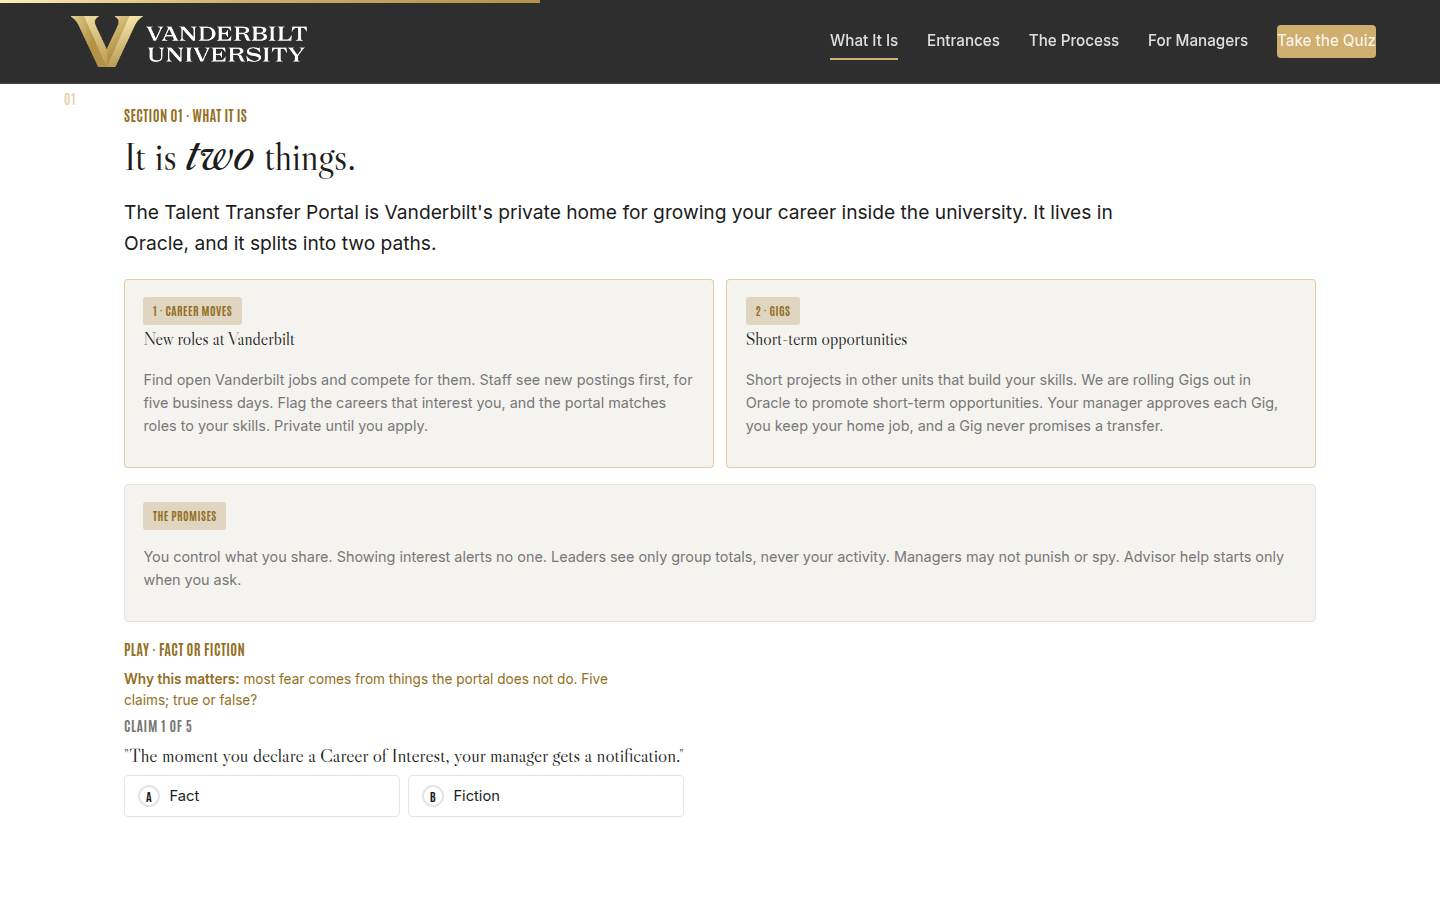
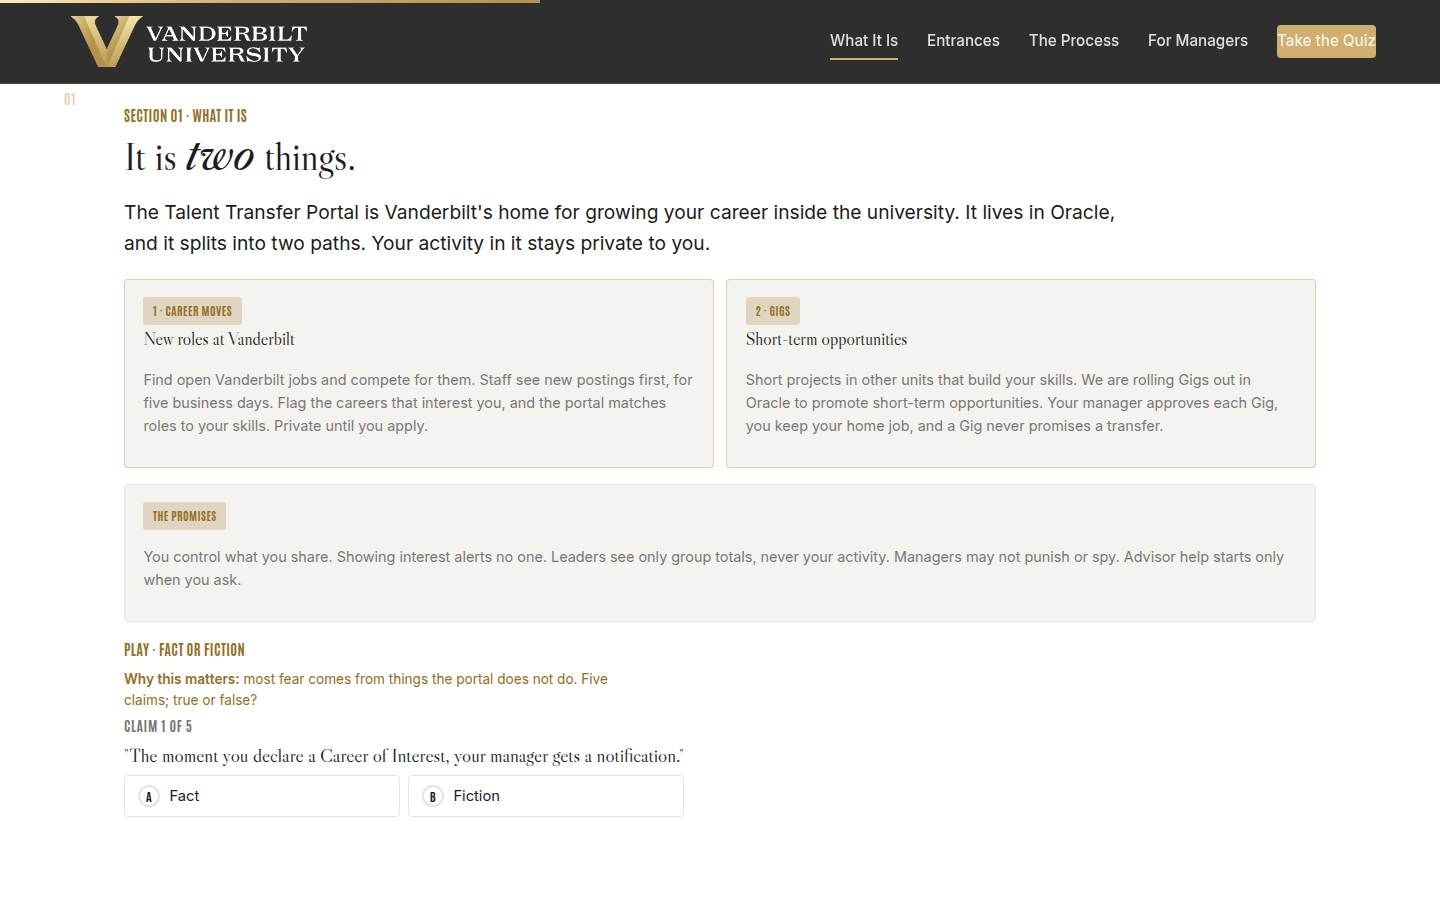
Drop the private-home phrasing; the portal is open, your activity is private
The site and course no longer call the portal a private home. The
program hero says home for your growth and development; the course
What It Is page adds that your activity in it stays private to you,
and the closing keeps the accurate claim (signal interest safely and
privately). Editions, guide, and SCORM package regenerated.

Claude-Session: https://claude.ai/code/session_016tfiZ6XpMCwgGy8wFQJXa7

Changed region(s): [[0.0938, 0.2178, 0.7812, 0.28]]

diff --git a/facilitator/index.html b/facilitator/index.html
@@ -335,7 +335,7 @@ body.fac-hide .facshow { display: inline-flex; }
     <div class="wrap">
       <p class="eyebrow" data-reveal>Section 01 · What It Is</p>
       <h2 class="h2" data-reveal>It is <em>two</em> things.</h2>
-      <p class="lead" data-reveal>The Talent Transfer Portal is Vanderbilt's private home for growing your career inside the university. It lives in Oracle, and it splits into two paths.</p>
+      <p class="lead" data-reveal>The Talent Transfer Portal is Vanderbilt's home for growing your career inside the university. It lives in Oracle, and it splits into two paths. Your activity in it stays private to you.</p>
 
       <div class="grid grid-3" style="margin-top:1.25rem;grid-template-columns:repeat(auto-fit,minmax(280px,1fr))">
         <div class="card" data-reveal style="border-color:rgba(207,174,112,.55)">
@@ -383,7 +383,7 @@ body.fac-hide .facshow { display: inline-flex; }
         </div>
       </details>
     </div>
-    <aside class="facnote" aria-label="Facilitator notes"><div class="facnote__head"><span>Facilitator script</span><span class="facnote__time">Full 1 min · Core 1</span><button class="facnote__hide" type="button" aria-label="Hide the facilitator script">Hide</button></div><p class="facnote__purpose">Land the simple model: one private portal, two paths (career moves and Gigs), and the promises that make it safe.</p><div class="facnote__blk"><span class="facnote__tag t-say">Say</span><p class="facnote__script">&ldquo;What is it? Two things, one portal. Path one: career moves. Find open Vanderbilt jobs, see them before the public does, and compete for them. Path two: Gigs. Short projects in other units that build your skills; we are rolling Gigs out in Oracle to promote short-term opportunities. Both live in Oracle, both stay private until you act, and leaders only ever see group totals. Now the game: five claims, true or false.&rdquo;</p></div><div class="facnote__blk"><span class="facnote__tag t-do">Do</span><ol class="facnote__steps"><li>The two path cards, one breath each: career moves, then Gigs.</li><li>Read the promises card once, slowly.</li><li>Run Fact or Fiction as a fast room vote, hands for A or B.</li></ol></div><p class="facnote__meta"><b>Validate:</b> 4+ of 5 on the trainer.</p><p class="facnote__meta"><b>Watch for:</b> Privacy skepticism; point at the mechanics (no notifications, aggregate-only) and move on. If Gigs come up: they have not launched yet, teach the concept and flag that timing is to be announced.</p><div class="facnote__blk"><span class="facnote__tag t-tra">Transition</span><p class="facnote__script">&ldquo;Which door is yours? There are six.&rdquo;</p></div><p class="facnote__meta facnote__core"><b>60-min core:</b> Core: same minute; the trainer carries it.</p></aside>
+    <aside class="facnote" aria-label="Facilitator notes"><div class="facnote__head"><span>Facilitator script</span><span class="facnote__time">Full 1 min · Core 1</span><button class="facnote__hide" type="button" aria-label="Hide the facilitator script">Hide</button></div><p class="facnote__purpose">Land the simple model: one portal, two paths (career moves and Gigs), and the promises that make it safe.</p><div class="facnote__blk"><span class="facnote__tag t-say">Say</span><p class="facnote__script">&ldquo;What is it? Two things, one portal. Path one: career moves. Find open Vanderbilt jobs, see them before the public does, and compete for them. Path two: Gigs. Short projects in other units that build your skills; we are rolling Gigs out in Oracle to promote short-term opportunities. Both live in Oracle, both stay private until you act, and leaders only ever see group totals. Now the game: five claims, true or false.&rdquo;</p></div><div class="facnote__blk"><span class="facnote__tag t-do">Do</span><ol class="facnote__steps"><li>The two path cards, one breath each: career moves, then Gigs.</li><li>Read the promises card once, slowly.</li><li>Run Fact or Fiction as a fast room vote, hands for A or B.</li></ol></div><p class="facnote__meta"><b>Validate:</b> 4+ of 5 on the trainer.</p><p class="facnote__meta"><b>Watch for:</b> Privacy skepticism; point at the mechanics (no notifications, aggregate-only) and move on. If Gigs come up: they have not launched yet, teach the concept and flag that timing is to be announced.</p><div class="facnote__blk"><span class="facnote__tag t-tra">Transition</span><p class="facnote__script">&ldquo;Which door is yours? There are six.&rdquo;</p></div><p class="facnote__meta facnote__core"><b>60-min core:</b> Core: same minute; the trainer carries it.</p></aside>
   </section>
 
   
@@ -736,7 +736,7 @@ body.fac-hide .facshow { display: inline-flex; }
     <div class="wrap" style="text-align:center">
       <img src="../assets/img/vu-centered-white.png" alt="Vanderbilt University" width="120" height="125" style="margin:0 auto 1.25rem;width:clamp(80px,8vw,110px);height:auto" data-reveal>
       <h2 class="h2 gold-text" data-reveal style="max-width:20ch;margin-inline:auto">Now make the first <em>move</em>.</h2>
-      <p class="lead" data-reveal style="margin:1.25rem auto 0;color:rgba(255,255,255,.82)">The Talent Transfer Portal is Vanderbilt's private, Oracle-powered home for internal career movement: see open roles first, signal interest safely, and grow your career without leaving the university. The job aid, one page back, maps your first five moves.</p>
+      <p class="lead" data-reveal style="margin:1.25rem auto 0;color:rgba(255,255,255,.82)">The Talent Transfer Portal is Vanderbilt's Oracle-powered home for internal career movement: see open roles first, signal interest safely and privately, and grow your career without leaving the university. The job aid, one page back, maps your first five moves.</p>
       <div class="vidcard vidcard--feature" data-reveal style="text-align:left;max-width:680px;margin:1.25rem auto 0;cursor:default">
         <div class="vidcard__top"><span class="vidcard__src">Your one next step · This week</span><span class="vidcard__dur">Within 7 days</span></div>
         <h3>Have a conversation with your manager about your growth and development</h3>

diff --git a/web/index.html b/web/index.html
@@ -216,7 +216,7 @@
     <div class="wrap">
       <p class="eyebrow" data-reveal>Section 01 · What It Is</p>
       <h2 class="h2" data-reveal>It is <em>two</em> things.</h2>
-      <p class="lead" data-reveal>The Talent Transfer Portal is Vanderbilt's private home for growing your career inside the university. It lives in Oracle, and it splits into two paths.</p>
+      <p class="lead" data-reveal>The Talent Transfer Portal is Vanderbilt's home for growing your career inside the university. It lives in Oracle, and it splits into two paths. Your activity in it stays private to you.</p>
 
       <div class="grid grid-3" style="margin-top:1.25rem;grid-template-columns:repeat(auto-fit,minmax(280px,1fr))">
         <div class="card" data-reveal style="border-color:rgba(207,174,112,.55)">
@@ -588,7 +588,7 @@
     <div class="wrap" style="text-align:center">
       <img src="../assets/img/vu-centered-white.png" alt="Vanderbilt University" width="120" height="125" style="margin:0 auto 1.25rem;width:clamp(80px,8vw,110px);height:auto" data-reveal>
       <h2 class="h2 gold-text" data-reveal style="max-width:20ch;margin-inline:auto">Now make the first <em>move</em>.</h2>
-      <p class="lead" data-reveal style="margin:1.25rem auto 0;color:rgba(255,255,255,.82)">The Talent Transfer Portal is Vanderbilt's private, Oracle-powered home for internal career movement: see open roles first, signal interest safely, and grow your career without leaving the university. The job aid, one page back, maps your first five moves.</p>
+      <p class="lead" data-reveal style="margin:1.25rem auto 0;color:rgba(255,255,255,.82)">The Talent Transfer Portal is Vanderbilt's Oracle-powered home for internal career movement: see open roles first, signal interest safely and privately, and grow your career without leaving the university. The job aid, one page back, maps your first five moves.</p>
       <div class="vidcard vidcard--feature" data-reveal style="text-align:left;max-width:680px;margin:1.25rem auto 0;cursor:default">
         <div class="vidcard__top"><span class="vidcard__src">Your one next step · This week</span><span class="vidcard__dur">Within 7 days</span></div>
         <h3>Have a conversation with your manager about your growth and development</h3>

diff --git a/index.html b/index.html
@@ -236,7 +236,7 @@
     <div class="wrap">
       <p class="eyebrow" data-reveal>Section 01 · What It Is</p>
       <h2 class="h2" data-reveal>It is <em>two</em> things.</h2>
-      <p class="lead" data-reveal>The Talent Transfer Portal is Vanderbilt's private home for growing your career inside the university. It lives in Oracle, and it splits into two paths.</p>
+      <p class="lead" data-reveal>The Talent Transfer Portal is Vanderbilt's home for growing your career inside the university. It lives in Oracle, and it splits into two paths. Your activity in it stays private to you.</p>
 
       <div class="grid grid-3" style="margin-top:1.25rem;grid-template-columns:repeat(auto-fit,minmax(280px,1fr))">
         <div class="card" data-reveal style="border-color:rgba(207,174,112,.55)">
@@ -632,7 +632,7 @@
     <div class="wrap" style="text-align:center">
       <img src="assets/img/vu-centered-white.png" alt="Vanderbilt University" width="120" height="125" style="margin:0 auto 1.25rem;width:clamp(80px,8vw,110px);height:auto" data-reveal>
       <h2 class="h2 gold-text" data-reveal style="max-width:20ch;margin-inline:auto">Now make the first <em>move</em>.</h2>
-      <p class="lead" data-reveal style="margin:1.25rem auto 0;color:rgba(255,255,255,.82)">The Talent Transfer Portal is Vanderbilt's private, Oracle-powered home for internal career movement: see open roles first, signal interest safely, and grow your career without leaving the university. The job aid, one page back, maps your first five moves.</p>
+      <p class="lead" data-reveal style="margin:1.25rem auto 0;color:rgba(255,255,255,.82)">The Talent Transfer Portal is Vanderbilt's Oracle-powered home for internal career movement: see open roles first, signal interest safely and privately, and grow your career without leaving the university. The job aid, one page back, maps your first five moves.</p>
       <div class="vidcard vidcard--feature" data-reveal style="text-align:left;max-width:680px;margin:1.25rem auto 0;cursor:default">
         <div class="vidcard__top"><span class="vidcard__src">Your one next step · This week</span><span class="vidcard__dur">Within 7 days</span></div>
         <h3>Have a conversation with your manager about your growth and development</h3>

diff --git a/program.html b/program.html
@@ -4,7 +4,7 @@
 <meta charset="UTF-8">
 <meta name="viewport" content="width=device-width, initial-scale=1">
 <title>The Talent Transfer Portal | Vanderbilt</title>
-<meta name="description" content="The Talent Transfer Portal is Vanderbilt's private home for growth and development: see where you are, name where you want to go, and build the skills to get there.">
+<meta name="description" content="The Talent Transfer Portal is Vanderbilt's home for growth and development: see where you are, name where you want to go, and build the skills to get there.">
 <link rel="canonical" href="https://me5231979.github.io/TransferPortal-/program.html">
 <meta property="og:type" content="website">
 <meta property="og:title" content="The Talent Transfer Portal | Vanderbilt">
@@ -169,7 +169,7 @@
       <div>
         <p class="eyebrow">The Talent Transfer Portal · Vanderbilt · People, Culture and Belonging</p>
         <h1>What is the Talent Transfer <em>Portal</em>?</h1>
-        <p class="lead" style="margin-top:1.25rem">It is Vanderbilt's private home for your growth and development. It helps you see where you are, name where you want to go, and build the skills to get there. Explore careers of interest or take on Gigs; either way, you are developing your skills.</p>
+        <p class="lead" style="margin-top:1.25rem">It is Vanderbilt's home for your growth and development. It helps you see where you are, name where you want to go, and build the skills to get there. Explore careers of interest or take on Gigs; either way, you are developing your skills.</p>
         <div class="cta">
           <a class="btn" href="web/">Take the 15-minute training</a>
           <a class="btn btn--ghost" href="https://vanderbilttalentcompass.vercel.app/">Open the portal tool</a>

diff --git a/facilitator/guide.html b/facilitator/guide.html
@@ -137,7 +137,7 @@
     <div class="sec__shot"><img src="img/s-what.jpg" alt="Slide: 01 · What it is" onerror="this.closest('.sec').classList.add('noimg')"></div>
     <div class="sec__notes">
     <h2>01 · What it is <span class="mins">Full 1 min · Core 1</span></h2>
-    <p class="purpose">Land the simple model: one private portal, two paths (career moves and Gigs), and the promises that make it safe.</p>
+    <p class="purpose">Land the simple model: one portal, two paths (career moves and Gigs), and the promises that make it safe.</p>
     <p class="tagline say">Say</p><p class="script">&ldquo;What is it? Two things, one portal. Path one: career moves. Find open Vanderbilt jobs, see them before the public does, and compete for them. Path two: Gigs. Short projects in other units that build your skills; we are rolling Gigs out in Oracle to promote short-term opportunities. Both live in Oracle, both stay private until you act, and leaders only ever see group totals. Now the game: five claims, true or false.&rdquo;</p>
     <p class="tagline">Do</p><ol><li>The two path cards, one breath each: career moves, then Gigs.</li><li>Read the promises card once, slowly.</li><li>Run Fact or Fiction as a fast room vote, hands for A or B.</li></ol>
     
